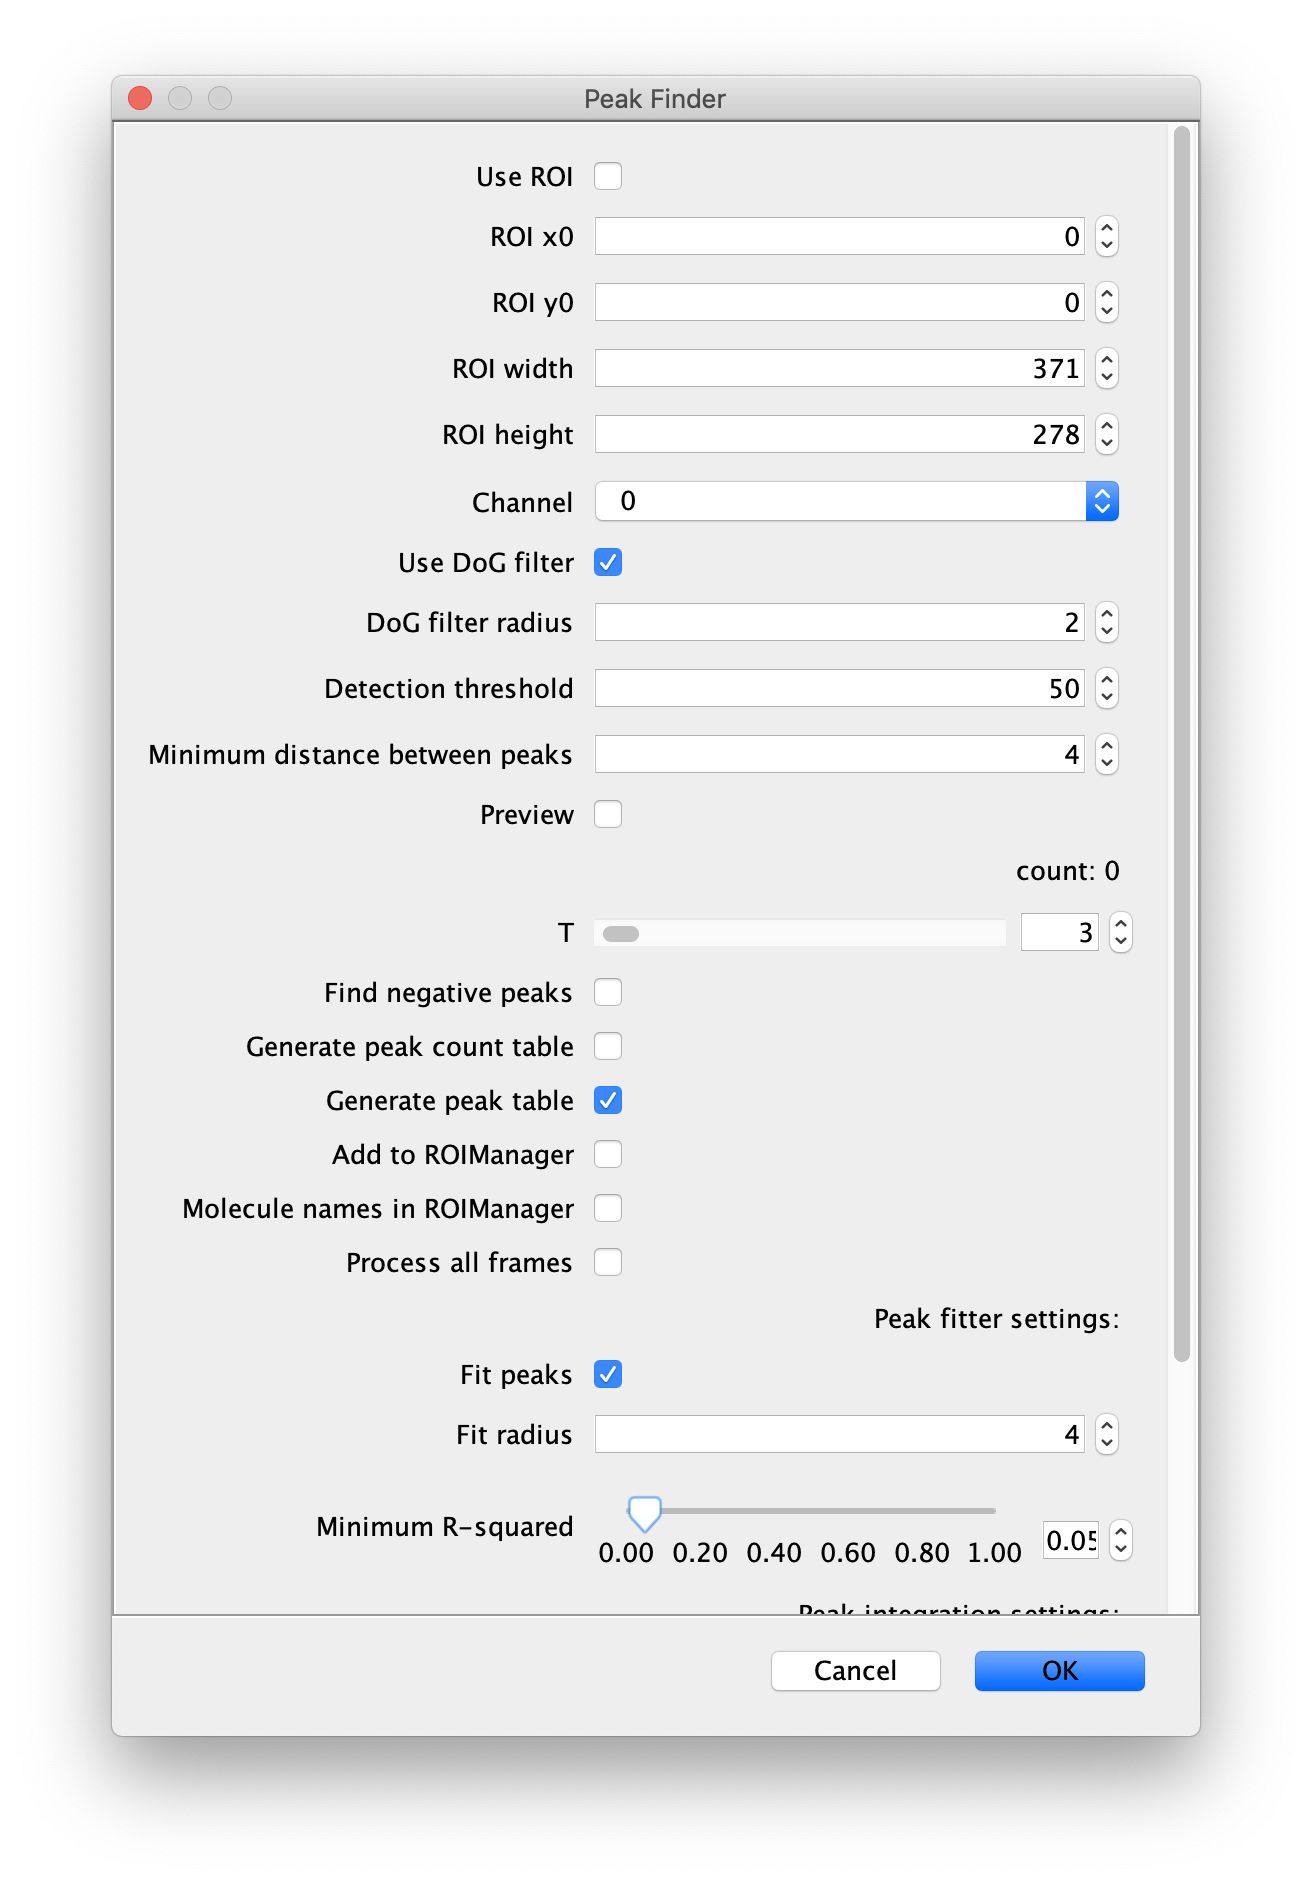
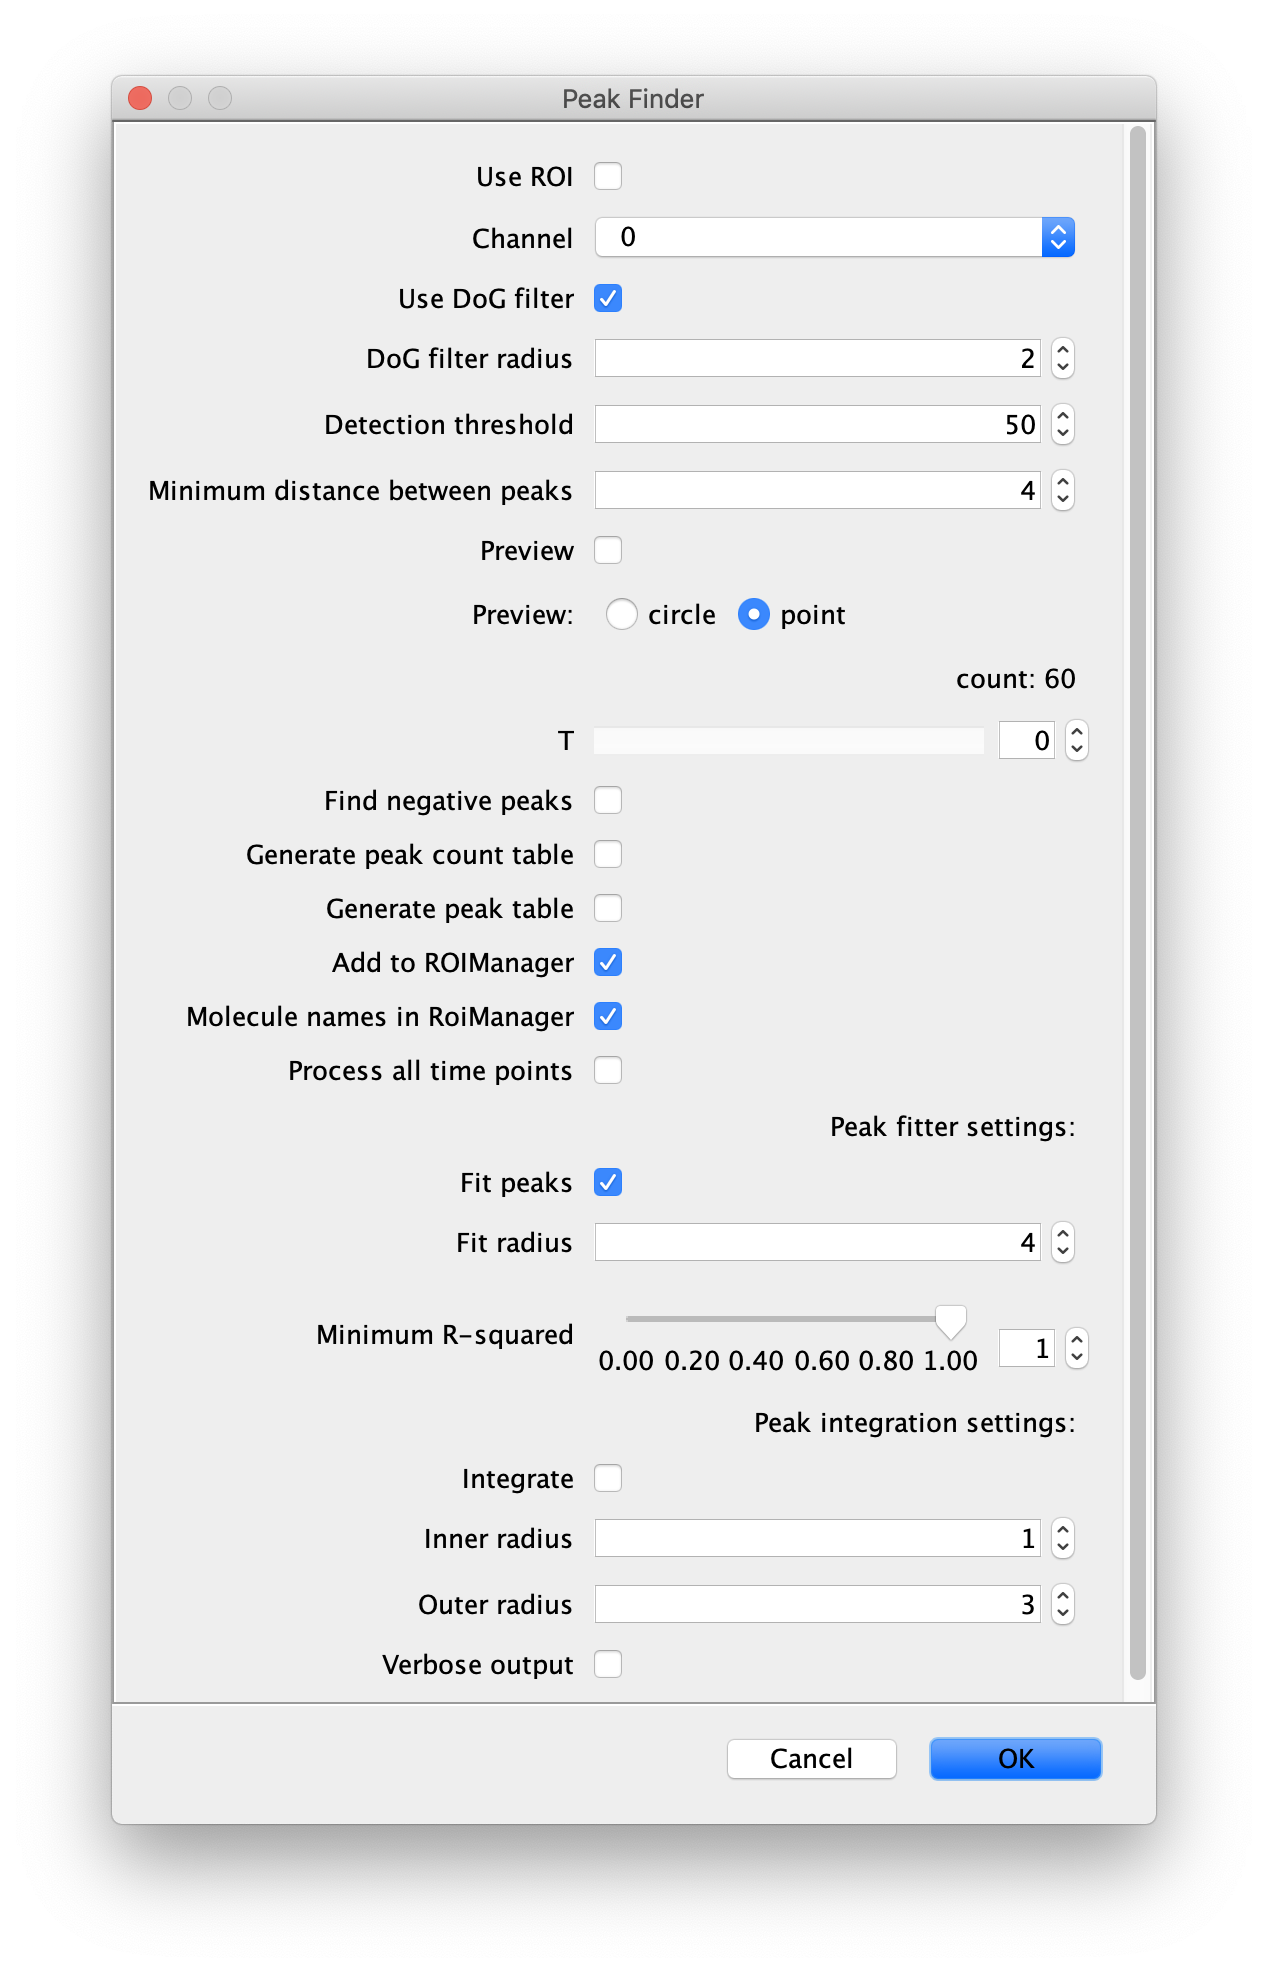
text updates

diff --git a/docs/image/PeakTracker.md b/docs/image/PeakTracker.md
@@ -15,13 +15,13 @@ The [Color coded track overlay groovy script](https://github.com/duderstadt-lab/
 
 #### Inputs
 
-There are a lot of inputs, but don't panic, they are all pretty simple to understand and overlap with the [PeakFinder](../PeakFinder) options. A lot of inputs are included for completeness to give fine control but do not need to be changed in most cases.   
+There are a lot of inputs, but don't panic, they are all pretty simple to understand and overlap with the [PeakFinder](../PeakFinder) options. Many inputs are included for completeness to give fine control but do not need to be changed in most cases.   
 
 <div style="text-align: center"><img  src='{{site.baseurl}}/docs/image/img/img3.png' width='550'/></div>
 <div style="text-align: center"><img  src='{{site.baseurl}}/docs/image/img/img4.png' width='550'/></div>
 
 * *Image* - The active image selected will be used by the Peak Tracker. So this is a required input but doesn't show up in the dialog.
-* *use ROI* - If checked a subregion of the image will be used for processing. Otherwise, the entire image will be used. You can also add a selection with the box tool to add a rectangular ROI to the image. Upon running the command, this ROI will activate the checkbox and add the region settings.
+* *use ROI* - If checked a subregion of the image will be used for processing. Otherwise, the entire image will be used. You can also add a selection with the box tool to add a rectangular ROI to the image. Upon running the command, this ROI will activate the checkbox.
 * *Channel* - Select which channel to analyze in case a video with multiple channels is provided as input.
 * *Use DoG filter* - If checked the image will be processed with a Difference of Gaussian (DoG) filter before peak finding. Using an appropriately chosen radius this filter enhances real peaks with signal spread among several pixels and suppresses salt and pepper noise as demonstrated in [this systematic study](../DoGFilterProperties). If unchecked the raw image will be used for peak finding.
 * *DoG filter radius* - The radius used for DoG filtering. The value chosen should reflect the size of the desired peaks. Decimal numbers are permitted.
@@ -56,7 +56,7 @@ The following are the settings for tracking absent in the [PeakFinder](../PeakFi
 * *Pixel length* - Length of a pixel in the microscope system used for data collection.
 * *Pixel units* - Units of the provided pixel length.
 * *Norpix format* - Tick if a dataset in the Norpix format is analyzed.
-* *Exclude* - List timepoints to exclude  from the tracking process. This allows the user to exclude frames from the analysis without having to delete them from the dataset irreversibly. 
+* *Exclude* - List timepoints to exclude from the tracking process. This allows the user to exclude frames from the analysis without having to delete them from the dataset irreversibly.
 
 ### Output
 
@@ -81,10 +81,6 @@ peakTracker.setContext(ij.getContext())
 
 peakTracker.setDataset(dataset)
 peakTracker.setUseROI(false)
-peakTracker.setX0(0)
-peakTracker.setY0(0)
-peakTracker.setWidth(100)
-peakTracker.setHeight(100)
 peakTracker.setChannel(0)
 peakTracker.setUseDogFiler(true)
 peakTracker.setDogFilterRadius(1.8d)
@@ -105,6 +101,7 @@ peakTracker.setMicroscope("Microscope")
 peakTracker.setPixelLength(1)
 peakTracker.setPixelUnits("pixel")
 peakTracker.setNorpixFormat(False)
+peakTracker.setExcludedTimePointsList()
 
 //Run the Command
 peakTracker.run();

diff --git a/docs/image/ObjectFinder.md b/docs/image/ObjectFinder.md
@@ -6,7 +6,7 @@ permalink: /docs/image/ObjectTracker/index.html
 
 This command is used to identify unspecified objects in microscopic images and track their position through frames. Classification by segmentation allows for the identification of these objects and their center of mass is tracked as the position of the object.
 
-#### How does this object identification work?
+#### How does object identification work?
 **Segmentation**  
 Objects are identified in the image through [segmentation](https://en.wikipedia.org/wiki/Image_segmentation). Image segmentation is the process of partitioning an image into segments (sets of pixels) in order to simplify. In the case of the Object Tracker tool the image is segmented based on pixel intensity values according to a set threshold. In the example below you see a segmentation of an artificial example image displaying a curved white feature against a black background. Through segmentation this object was identified as the yellow-outlined area.
 
@@ -48,11 +48,11 @@ As an example the Object Tracker settings can be applied on a standard Fiji samp
 * *Microscope* - The name of the microscope used for data collection. This name is included in the metadata record.
 * *Pixel length* - Length of a pixel in the microscope system used for data collection.
 * *Pixel units* - Units of the provided pixel length.
-* *Exclude* - List timepoints to exclude  from the tracking process. This allows the user to exclude frames from the analysis without having to delete them from the dataset irreversibly.
+* *Exclude* - List timepoints to exclude from the tracking process. This allows the user to exclude frames from the analysis without having to delete them from the dataset irreversibly.
 
 ### Output
 
-* *Molecule Archive* - A Molecule Archive with individual records for all tracked molecules as well as metadata information.
+* *Object Archive* - An Object Archive with individual records for all tracked molecules as well as metadata information.
 
 ### How to run this Command from a groovy script
 ```groovy
@@ -88,7 +88,7 @@ objectTracker.setVerboseOutput(false)
 objectTracker.setMicroscope("Microscope")
 objectTracker.setPixelLength(1)
 objectTracker.setPixelUnits("pixel")
-objectTracker.setExcludedTimePointsList("[0,2]")
+objectTracker.setExcludedTimePointsList()
 
 //Run the Command
 objectTracker.run();

diff --git a/docs/image/PeakFinder.md b/docs/image/PeakFinder.md
@@ -8,10 +8,9 @@ This command is used to find high intensity spots or peaks in images. Typically 
 #### Inputs  
 
 <div style="text-align: center"><img  src='{{site.baseurl}}/docs/image/img/img1.png' width='550'/></div>
-<div style="text-align: center"><img  src='{{site.baseurl}}/docs/image/img/img2.png' width='550'/></div>
 
  * *Image* - The active image selected will be used by the Peak Finder. So this is a required input but doesn't show up in the dialog.
- * *use ROI* - If checked a subregion of the image will be used for processing. Otherwise, the entire image will be used. You can also add a selection with the box tool, so making a rectangular ROI to the image. This Roi will activate this box and add the settings below it.
+ * *use ROI* - If checked a subregion of the image will be used for processing. Otherwise, the entire image will be used. You can also add a selection with the box tool, so making a rectangular ROI to the image. This Roi will activate this box.
  * *Channel* - Select which channel to analyze in case a video with multiple channels is provided as input.
  * *Use DoG filter* - If checked the image will be processed with a Difference of Gaussian (DoG) filter before peak finding. Using an appropriately chosen radius this filter enhances real peaks with signal spread among several pixels and suppresses salt and pepper noise as demonstrated in [this systematic study](../DoGFilterProperties). If unchecked the raw image will be used for peak finding.
  * *DoG filter radius* - The radius used for DoG filtering. The value chosen should reflect the size of the desired peaks. Decimal numbers are permitted.
@@ -73,10 +72,6 @@ peakFinder.setContext(ij.getContext())
 
 peakFinder.setDataset(dataset)
 peakFinder.setUseROI(false)
-peakFinder.setX0(0)
-peakFinder.setY0(0)
-peakFinder.setWidth(50)
-peakFinder.setHeight(50)
 peakFinder.setChannel(0)
 peakFinder.setT(0)
 peakFinder.setUseDogFiler(true)

diff --git a/docs/index.md b/docs/index.md
@@ -58,7 +58,7 @@ Mars image processing algorithms will also work with ordinary videos opened in I
 | :----------------------------- | :----------- |
 | [DNA finder](./image/DNA_finder) | Find and fit linear DNA molecules |
 | [Peak Finder](./image/PeakFinder) | Counting and subpixel localization of molecules. |
-|[Object Tracker](./ObjectTracker)| Fit and track unspecified objects based on segmentation. |
+|[Object Tracker](./image/ObjectTracker)| Fit and track unspecified objects based on segmentation. |
 | [Peak Tracker](./image/PeakTracker) | Find, subpixel localize, and track molecules. |
 | [Beam Profile Corrector](./image/BeamProfileCorrector) | Correct images for non-uniform beam profile. |
 | [Molecule Integrator](./image/MoleculeIntegrator) | Integrate the fluorescence of molecules. |
